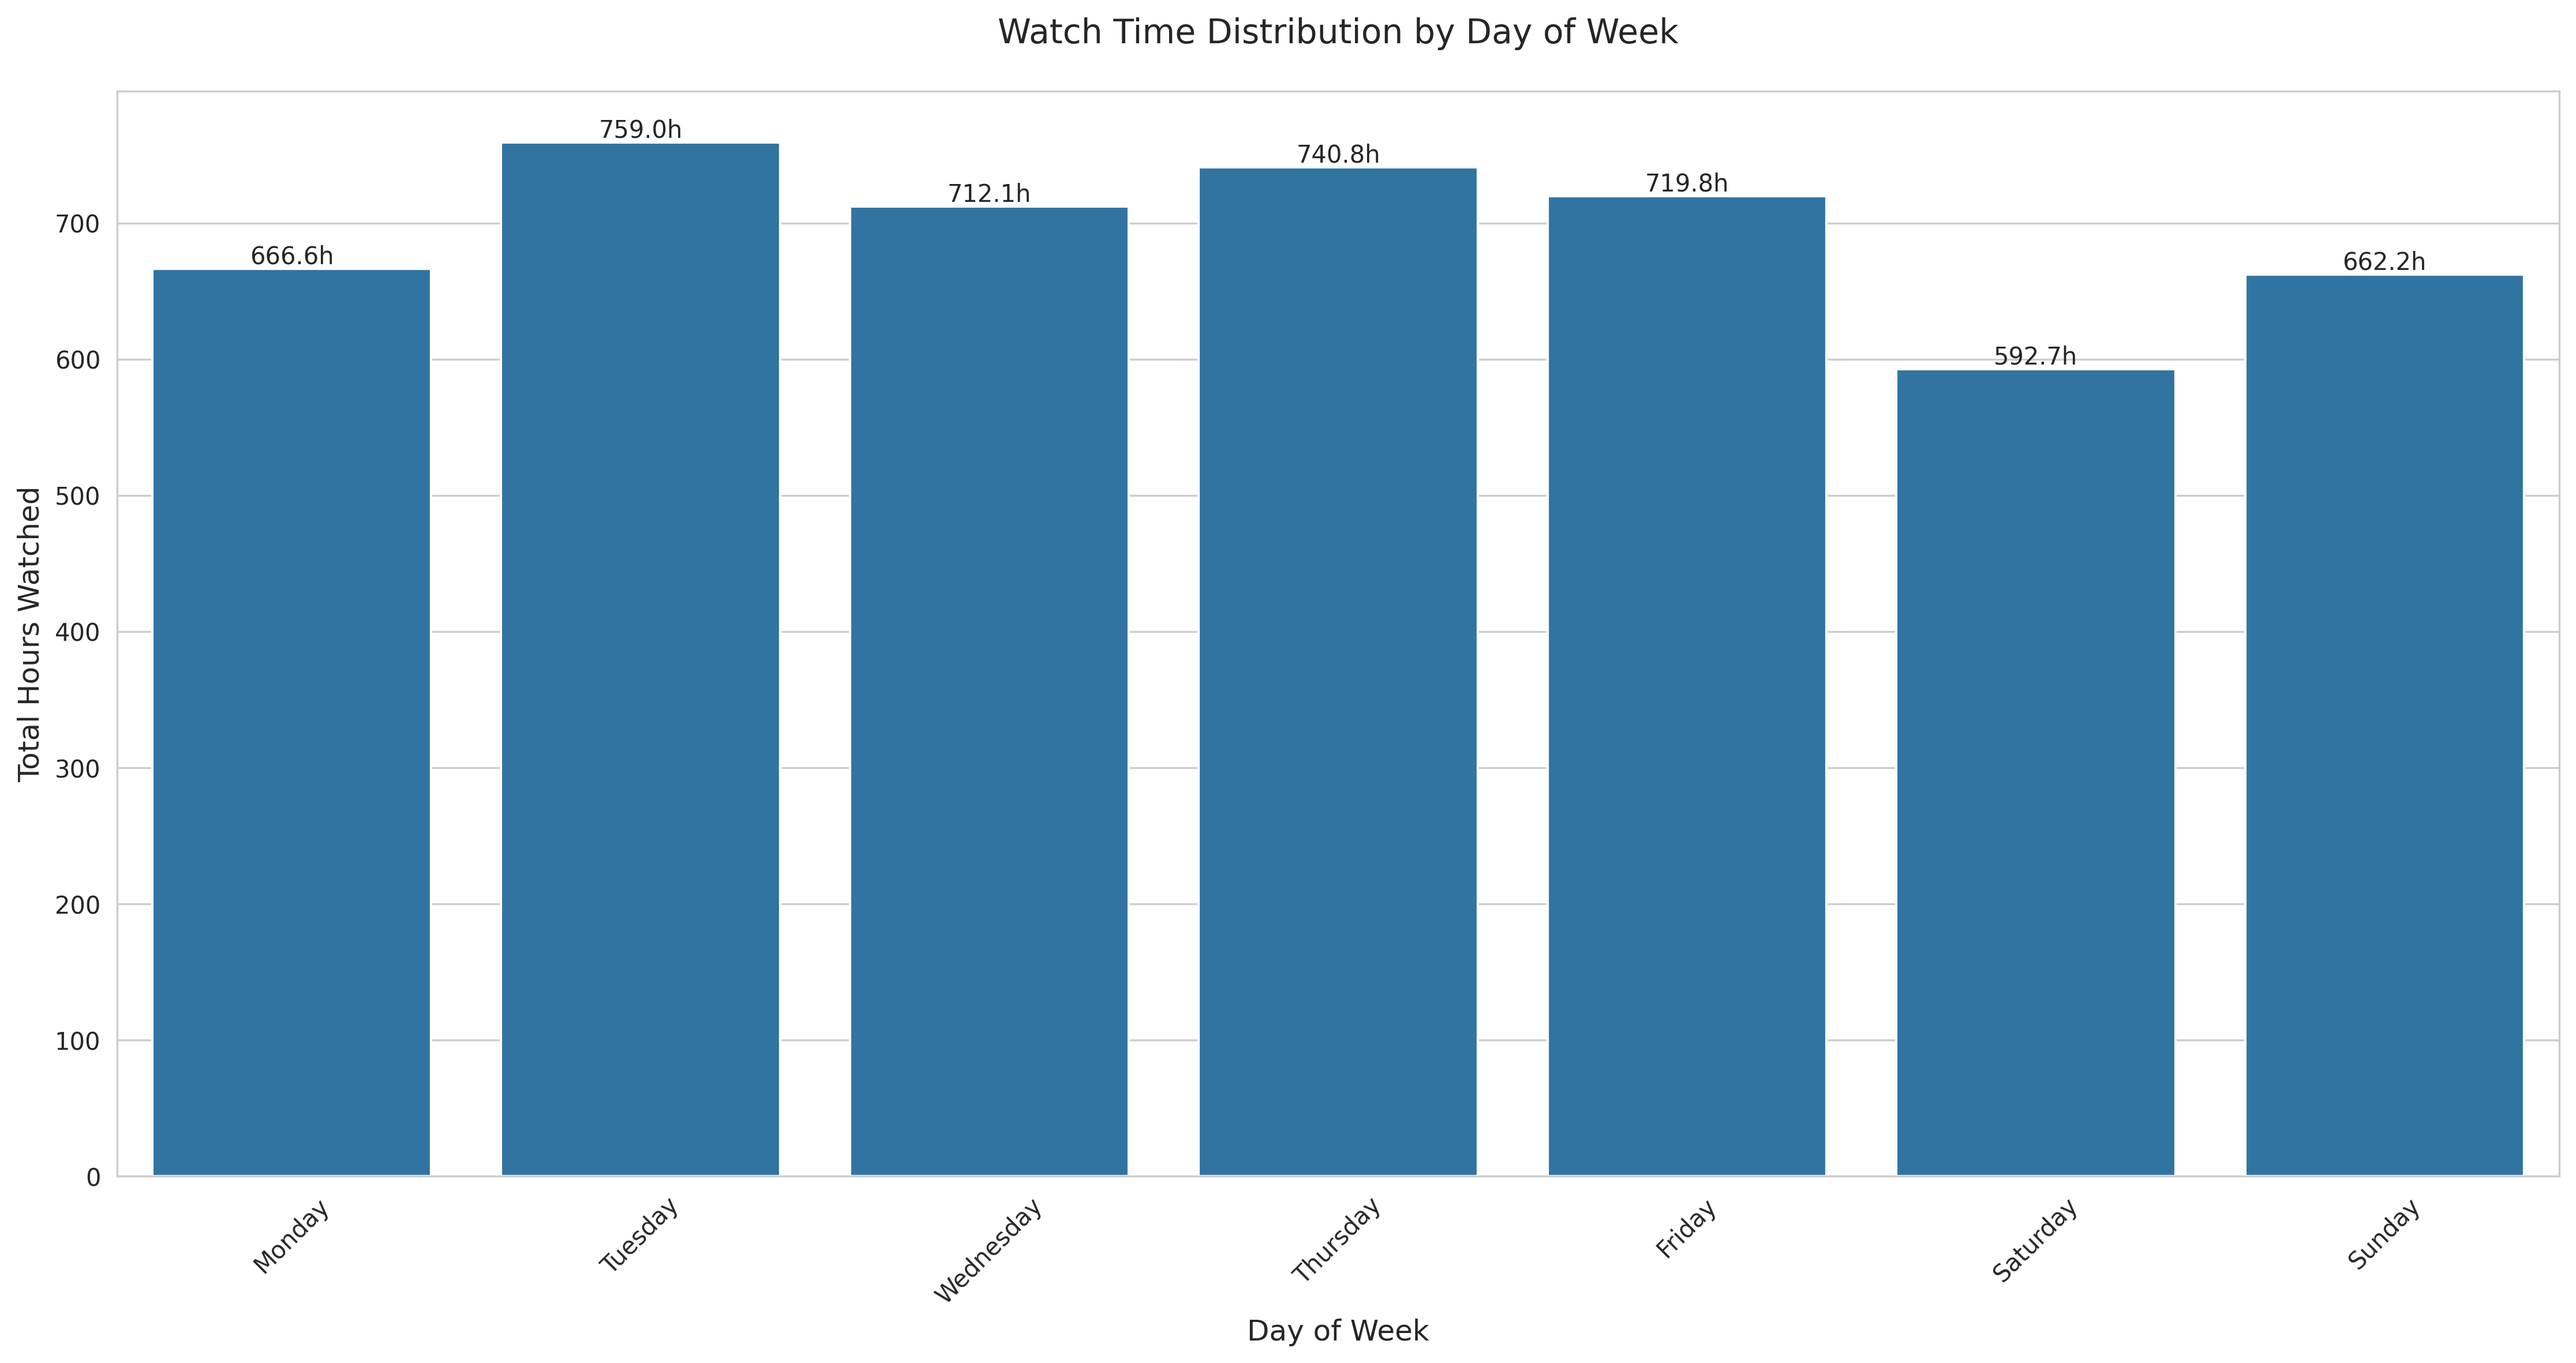
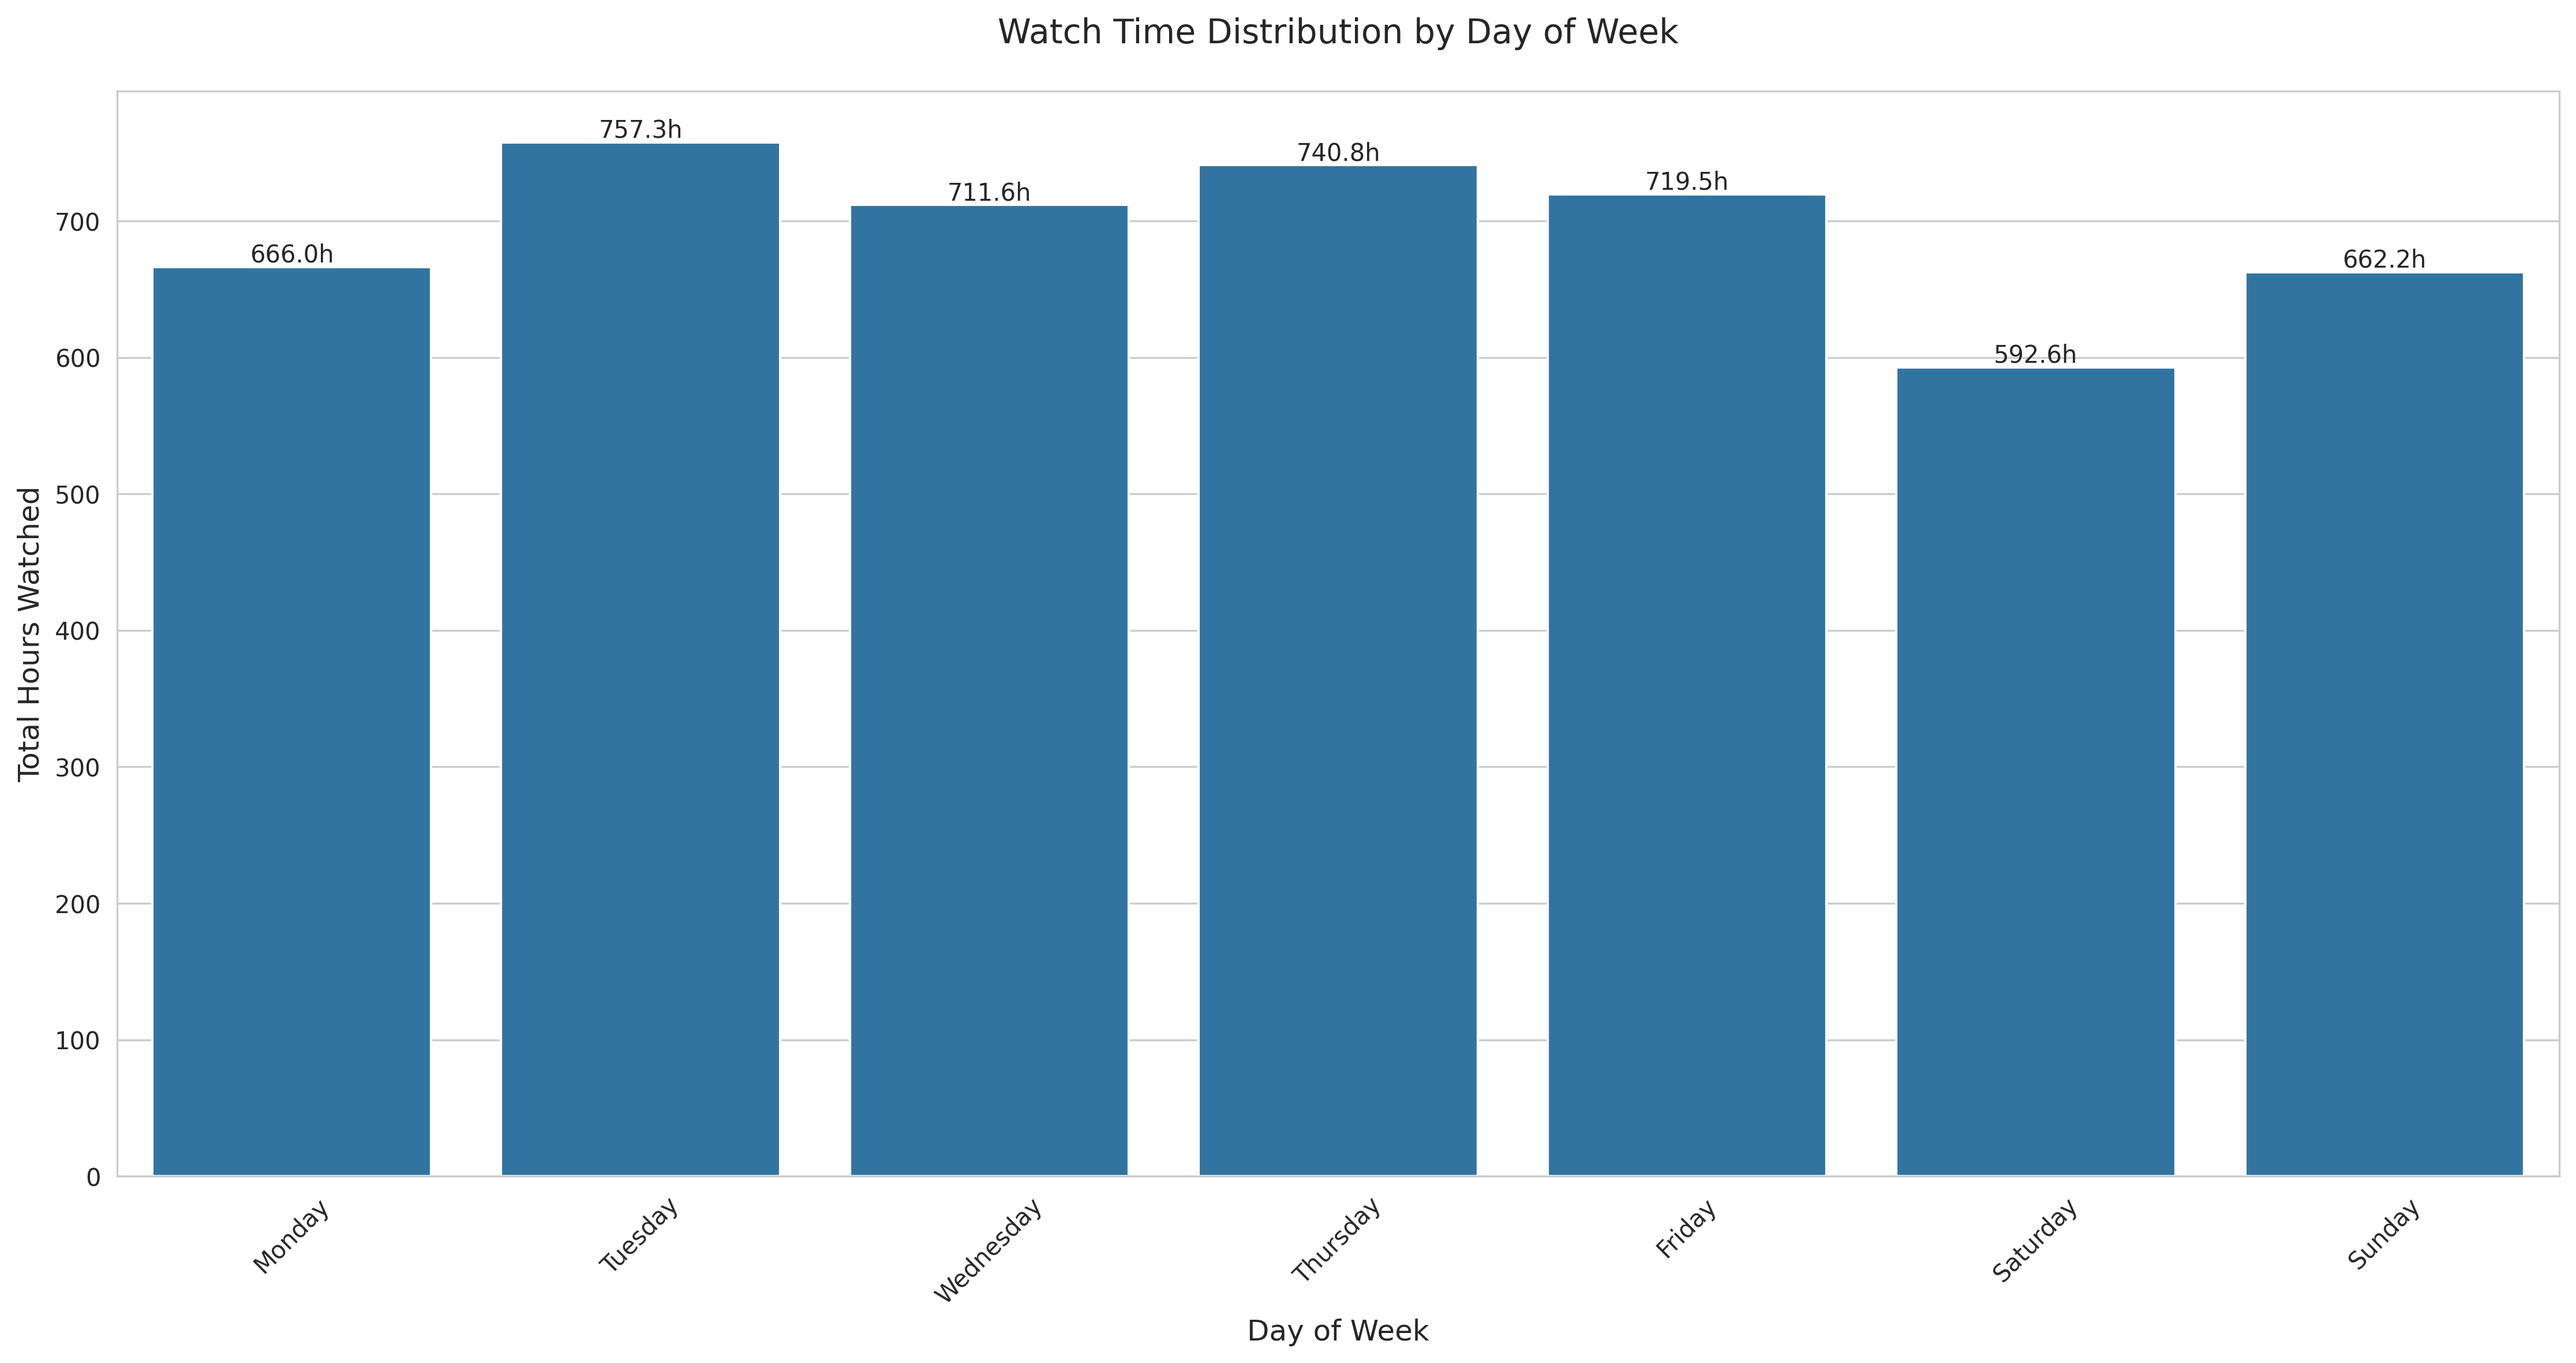
Conducted hypothesis testing on data (tbc)

diff --git a/temporal_analysis.py b/temporal_analysis.py
@@ -3,6 +3,7 @@ import matplotlib.pyplot as plt
 import seaborn as sns
 from datetime import datetime
 import os
+from scipy.stats import kruskal, ttest_ind
 
 def create_analysis_plots(df, output_dir='results'):
     # Create output directory if it doesn't exist
@@ -12,8 +13,8 @@ def create_analysis_plots(df, output_dir='results'):
     df['date'] = df['watched_on'].dt.date
     df['hour'] = df['watched_on'].dt.hour
     df['week'] = df['watched_on'].dt.isocalendar().week
-    # Use month start date instead of period for better timezone handling
-    df['month'] = df['watched_on'].dt.to_period('M').astype(str)
+    # Use strftime to extract month as 'YYYY-MM' to avoid dropping timezone info
+    df['month'] = df['watched_on'].dt.strftime('%Y-%m')
     df['day_of_week'] = df['watched_on'].dt.day_name()
     
     # Set style for all plots
@@ -53,9 +54,6 @@ def create_analysis_plots(df, output_dir='results'):
     
     # 2. Monthly Category Distribution
     plt.figure(figsize=(15, 8))
-    
-    # Add month information with better formatting
-    df['month'] = pd.to_datetime(df['watched_on']).dt.strftime('%Y-%m')
     
     # Calculate total duration for each category
     category_totals = df.groupby('category')['duration'].sum().sort_values(ascending=False)
@@ -144,10 +142,59 @@ def create_analysis_plots(df, output_dir='results'):
     plt.savefig(os.path.join(output_dir, 'daily_distribution.png'), dpi=300, bbox_inches='tight')
     plt.close()
     
+    # 5. Hypothesis Testing: Kruskal-Wallis H Test
+    # Prepare data for Kruskal-Wallis H test
+    groups = [group['duration'].values for name, group in df.groupby('month')]
+    
+    # Perform Kruskal-Wallis H test
+    h_stat, p_value = kruskal(*groups)
+    
+    # Determine the conclusion based on p-value
+    alpha = 0.05
+    if p_value < alpha:
+        conclusion = "Reject the null hypothesis: There are significant differences in viewing duration distributions across months."
+    else:
+        conclusion = "Fail to reject the null hypothesis: No significant differences in viewing duration distributions across months."
+    
     # Save summary statistics to a text file
     with open(os.path.join(output_dir, 'viewing_statistics.txt'), 'w') as f:
         f.write("Viewing Pattern Analysis Summary\n")
         f.write("=" * 40 + "\n\n")
+        
+        # Perform t-test for weekday vs weekend comparison
+        daily_totals = df.groupby(['date', 'day_of_week'])['duration'].sum().reset_index()
+        weekday_totals = daily_totals[daily_totals['day_of_week'].isin(['Monday', 'Tuesday', 'Wednesday', 'Thursday', 'Friday'])]['duration']
+        weekend_totals = daily_totals[daily_totals['day_of_week'].isin(['Saturday', 'Sunday'])]['duration']
+        
+        # Calculate statistics
+        weekday_total = weekday_totals.sum()
+        weekend_total = weekend_totals.sum()
+        weekday_daily_avg = weekday_total / len(weekday_totals)
+        weekend_daily_avg = weekend_total / len(weekend_totals)
+        
+        # Perform t-test on daily totals
+        t_stat, p_value_t = ttest_ind(weekday_totals, weekend_totals)
+        
+        # Determine conclusion for t-test
+        alpha = 0.05
+        if p_value_t < alpha:
+            weekday_weekend_conclusion = "Reject the null hypothesis: There is a significant difference in watch time between weekdays and weekends."
+        else:
+            weekday_weekend_conclusion = "Fail to reject the null hypothesis: There is no significant difference in watch time between weekdays and weekends."
+
+        f.write("Weekday vs Weekend Analysis:\n")
+        f.write("-" * 40 + "\n")
+        f.write(f"Total weekday watch time: {weekday_total:.1f} hours\n")
+        f.write(f"Total weekend watch time: {weekend_total:.1f} hours\n")
+        f.write(f"Average daily weekday watch time: {weekday_daily_avg:.1f} hours per day\n")
+        f.write(f"Average daily weekend watch time: {weekend_daily_avg:.1f} hours per day\n")
+        f.write(f"\nStatistical Test Results:\n")
+        f.write(f"T-statistic: {t_stat:.4f}\n")
+        if p_value_t < 0.001:
+            f.write("P-value: p < 0.001\n")
+        else:
+            f.write(f"P-value: {p_value_t:.4f}\n")
+        f.write(f"Conclusion: {weekday_weekend_conclusion}\n\n")
         
         f.write("General Statistics:\n")
         f.write("-" * 40 + "\n")
@@ -160,11 +207,33 @@ def create_analysis_plots(df, output_dir='results'):
         f.write("-" * 40 + "\n")
         for month, duration in monthly_watch.items():
             f.write(f"{month}: {duration:.1f} hours\n")
+        
+        f.write("\nHypothesis Testing: Temporal Analysis\n")
+        f.write("-" * 40 + "\n")
+        f.write("Null Hypothesis: The distributions of video watching duration are the same across all months.\n")
+        f.write("Alternative Hypothesis: The distributions of video watching duration differ across months.\n\n")
+        f.write("Note: Using Kruskal-Wallis H test instead of ANOVA because:\n")
+        f.write("1. The data is not normally distributed\n")
+        f.write("2. There are significant outliers in the viewing durations\n")
+        f.write("3. The test makes no assumptions about the distribution of the data\n\n")
+        f.write(f"Kruskal-Wallis H Test Results:\n")
+        f.write(f"H-statistic: {h_stat:.4f}\n")
+        # Format p-value with a conditional check
+        if p_value < 0.001:
+            f.write(f"P-value: p < 0.001\n")
+        else:
+            f.write(f"P-value: {p_value:.4f}\n")  # Format p-value in scientific notation
+        f.write(f"Conclusion: {conclusion}\n")
     
     return {
         'monthly_watch': monthly_watch,
         'hourly_pattern': hourly_pattern,
-        'daily_pattern': daily_pattern
+        'daily_pattern': daily_pattern,
+        'kruskal_wallis': {
+            'h_statistic': h_stat,
+            'p_value': p_value,
+            'conclusion': conclusion
+        }
     }
 
 def analyze_viewing_patterns(enhanced_categories_path, output_dir='results'):
@@ -172,7 +241,16 @@ def analyze_viewing_patterns(enhanced_categories_path, output_dir='results'):
     df = pd.read_csv(enhanced_categories_path)
     
     # Fix datetime parsing using ISO format and set timezone
-    df['watched_on'] = pd.to_datetime(df['watched_on'], format='ISO8601', utc=True)
+    # Removed any 'format' parameter to let pandas infer the format
+    df['watched_on'] = pd.to_datetime(df['watched_on'], utc=True, errors='coerce')
+    
+    # Check for any parsing errors
+    num_invalid_dates = df['watched_on'].isna().sum()
+    if num_invalid_dates > 0:
+        print(f"Warning: {num_invalid_dates} invalid datetime entries were found and set to NaT.")
+        # Optionally, you can drop these rows or handle them as needed
+        df = df.dropna(subset=['watched_on'])
+        print(f"Rows with invalid datetime entries have been removed. Remaining data points: {len(df)}")
     
     # Create the analysis plots and get the statistics
     stats = create_analysis_plots(df, output_dir)
@@ -182,7 +260,7 @@ def analyze_viewing_patterns(enhanced_categories_path, output_dir='results'):
     print("2. monthly_category_pattern.png - Monthly patterns by category")
     print("3. hourly_pattern.png - Distribution of watch time by hour")
     print("4. daily_distribution.png - Distribution of watch time by day of week")
-    print("5. viewing_statistics.txt - Detailed statistics and patterns")
+    print("5. viewing_statistics.txt - Detailed statistics and patterns, including ANOVA results")
 
 if __name__ == "__main__":
     # Specify the paths
